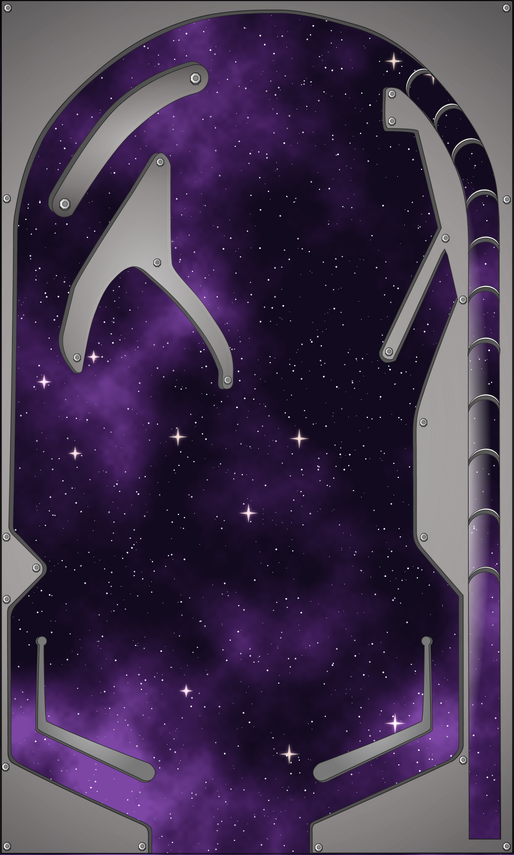
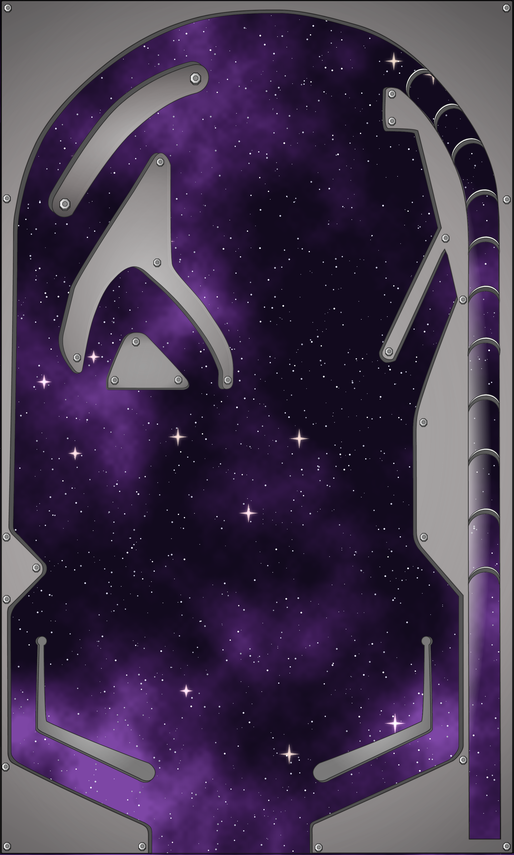
e

Changed region(s): [[0.1868, 0.3649, 0.3735, 0.4561]]

diff --git a/Pinball/Source/TableShapes.h b/Pinball/Source/TableShapes.h
@@ -1,0 +1,50 @@
+#pragma once
+
+// Outer wall + kicker lane 
+static const int table_outer[] = {
+	312, 852, 312, 828, 314, 824, 455, 760, 460, 755, 463, 748, 463, 595, 419, 543,
+	417, 536, 417, 415, 437, 353, 458, 300, 445, 247, 394, 358, 388, 359, 383, 357,
+	382, 351, 441, 228, 417, 129, 388, 128, 385, 124, 386, 88, 398, 88, 423, 113,
+	440, 137, 455, 163, 464, 185, 467, 205, 469, 230, 469, 840, 501, 840, 500, 238,
+	498, 194, 494, 176, 489, 158, 479, 137, 467, 116, 453, 97, 437, 79, 423, 64,
+	405, 49, 387, 37, 366, 27, 346, 21, 323, 15, 300, 11, 275, 10, 250, 10,
+	221, 12, 197, 17, 176, 24, 156, 32, 140, 40, 124, 50, 108, 62, 91, 76,
+	78, 88, 62, 104, 50, 119, 39, 136, 30, 156, 22, 181, 16, 204, 13, 227,
+	10, 531, 43, 566, 43, 573, 10, 606, 8, 610, 8, 757, 12, 763, 145, 826,
+	148, 831, 148, 853
+};
+
+// Inverted V 
+static const int inverted_v[] = {
+	164, 154, 168, 159, 171, 166, 171, 262, 174, 270, 199, 298, 218, 324, 228, 343,
+	232, 356, 233, 374, 232, 388, 226, 389, 223, 385, 223, 370, 213, 349, 193, 319,
+	169, 292, 142, 268, 133, 266, 124, 269, 106, 289, 96, 311, 88, 337, 83, 370,
+	79, 373, 74, 370, 67, 359, 62, 345, 63, 335, 72, 296, 76, 284, 154, 158,
+	159, 154
+};
+
+// Left rail 
+static const int left_rail[] = {
+	72, 216, 66, 218, 59, 216, 54, 212, 52, 206, 55, 195, 67, 176, 84, 149,
+	95, 134, 108, 116, 124, 101, 140, 89, 161, 77, 182, 68, 194, 64, 201, 64,
+	206, 68, 209, 76, 208, 83, 205, 88, 199, 93, 188, 95, 178, 99, 166, 106,
+	154, 114, 141, 124, 127, 137, 116, 149, 105, 164, 86, 192, 76, 208
+};
+
+// Left flipper guide 
+static const int left_flipper_guide[] = {
+	37, 640, 40, 636, 45, 637, 47, 642, 44, 645, 45, 720, 50, 723,
+	148, 762, 154, 768, 155, 776, 151, 781, 144, 781, 38, 729, 39, 644
+};
+
+// Right flipper guide 
+static const int right_flipper_guide[] = {
+	320, 763, 422, 721, 424, 646, 421, 641, 424, 636, 429, 637, 431, 642,
+	429, 646, 430, 729, 325, 780, 319, 780, 313, 776, 313, 769
+};
+
+// Triangle under the inverted V 
+static const int triangle[] = {
+	108, 385, 108, 379, 125, 340, 130, 334, 137, 332,
+	145, 334, 186, 378, 188, 383, 185, 387, 111, 387
+};

diff --git a/Pinball/Source/ModuleGame.cpp b/Pinball/Source/ModuleGame.cpp
@@ -5,6 +5,8 @@
 #include "ModuleAudio.h"
 #include "ModulePhysics.h"
 #include "Entities/Entity.h"
+#include "Entities/Wall.h"
+#include "TableShapes.h"
 
 #include <algorithm>
 
@@ -21,7 +23,16 @@ ModuleGame::~ModuleGame()
 bool ModuleGame::Start()
 {
 	LOG("Loading game scene");
+
 	background = LoadTexture("Assets/background.png");
+
+	// Static walls of the table (size = number of ints, not of points)
+	entities.emplace_back(new Wall(App->physics->CreateChain(0, 0, table_outer, sizeof(table_outer) / sizeof(int))));
+	entities.emplace_back(new Wall(App->physics->CreateChain(0, 0, left_rail, sizeof(left_rail) / sizeof(int))));
+	entities.emplace_back(new Wall(App->physics->CreateChain(0, 0, inverted_v, sizeof(inverted_v) / sizeof(int))));
+	entities.emplace_back(new Wall(App->physics->CreateChain(0, 0, triangle, sizeof(triangle) / sizeof(int))));
+	entities.emplace_back(new Wall(App->physics->CreateChain(0, 0, left_flipper_guide, sizeof(left_flipper_guide) / sizeof(int))));
+	entities.emplace_back(new Wall(App->physics->CreateChain(0, 0, right_flipper_guide, sizeof(right_flipper_guide) / sizeof(int))));
 
 	App->renderer->camera.x = App->renderer->camera.y = 0;
 
